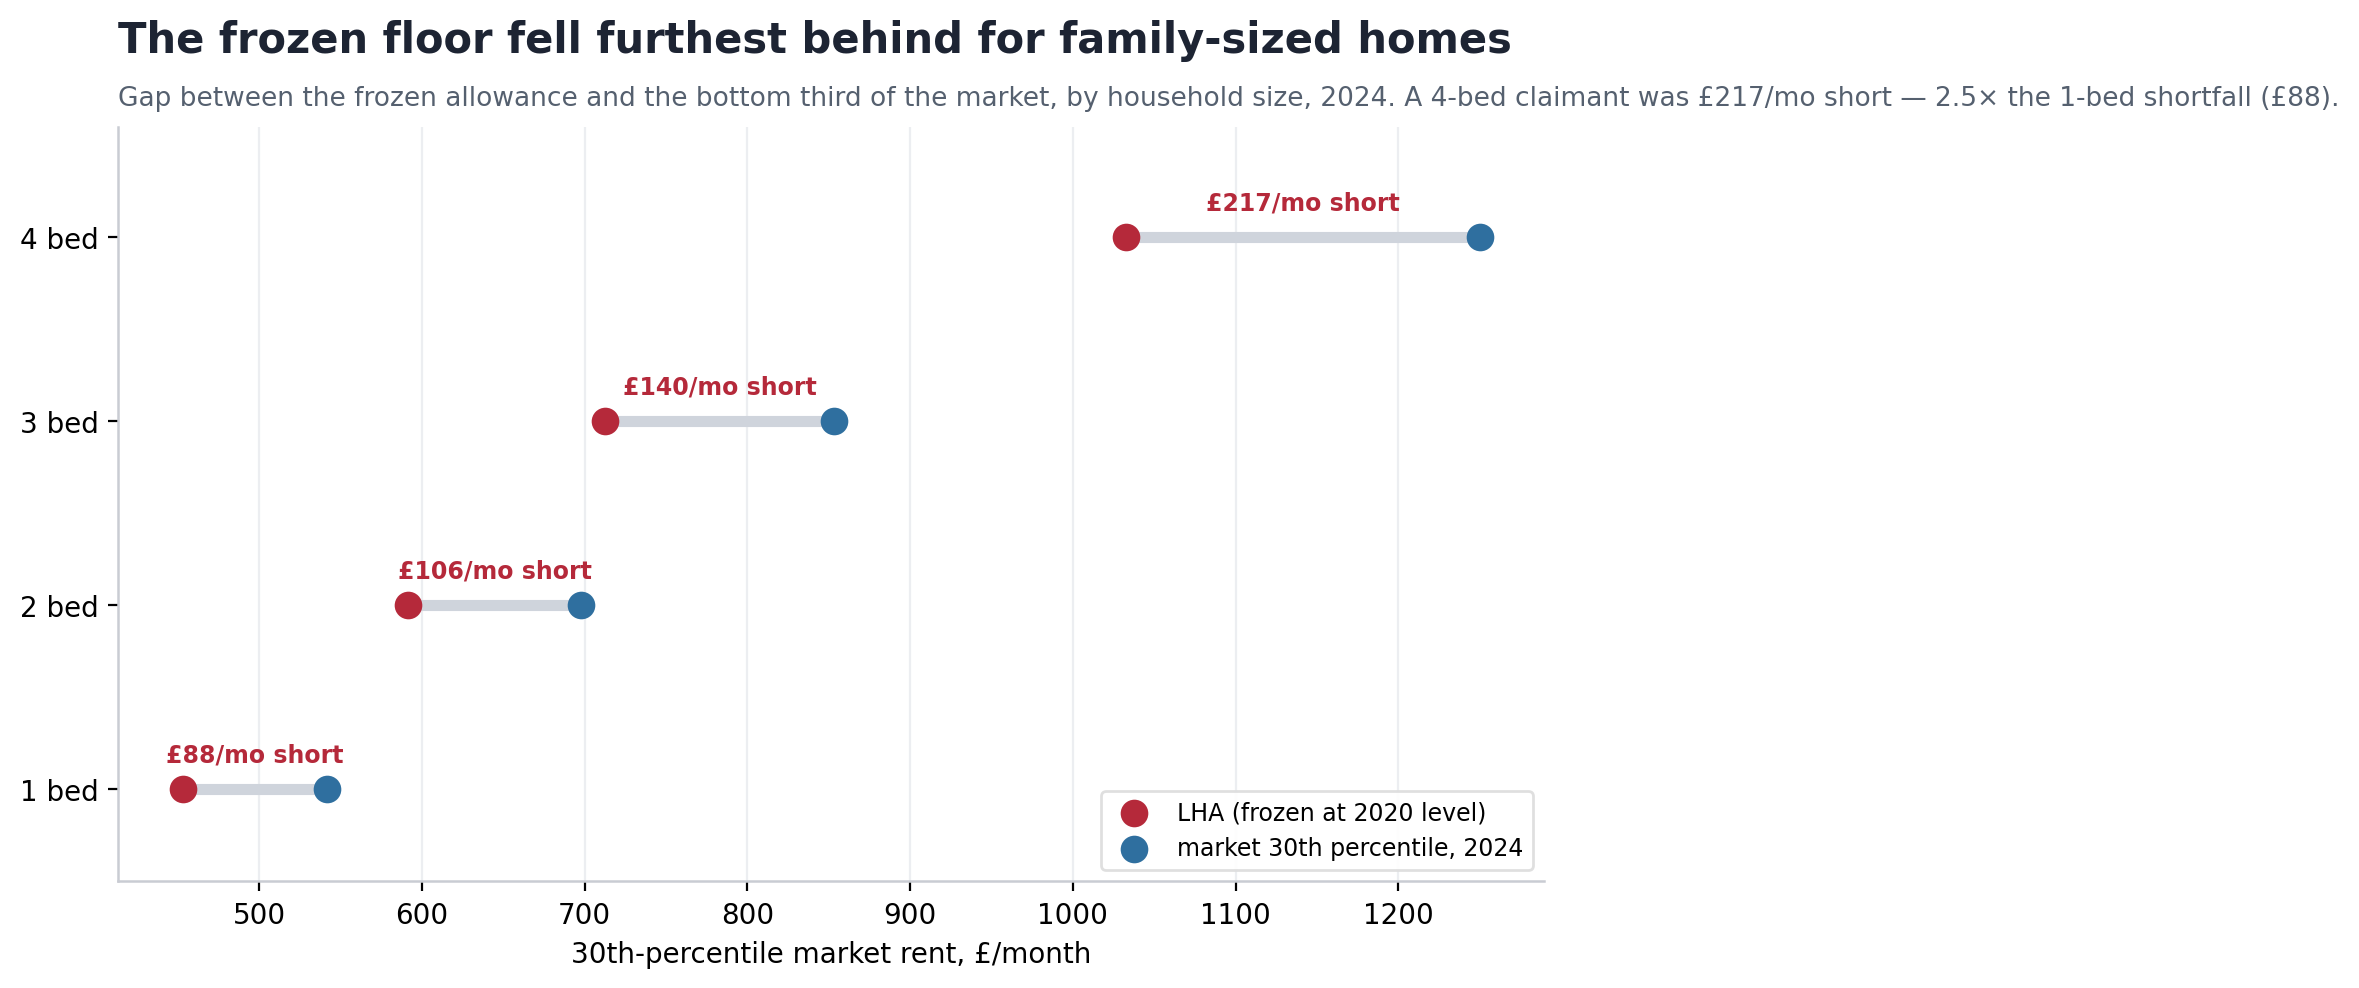
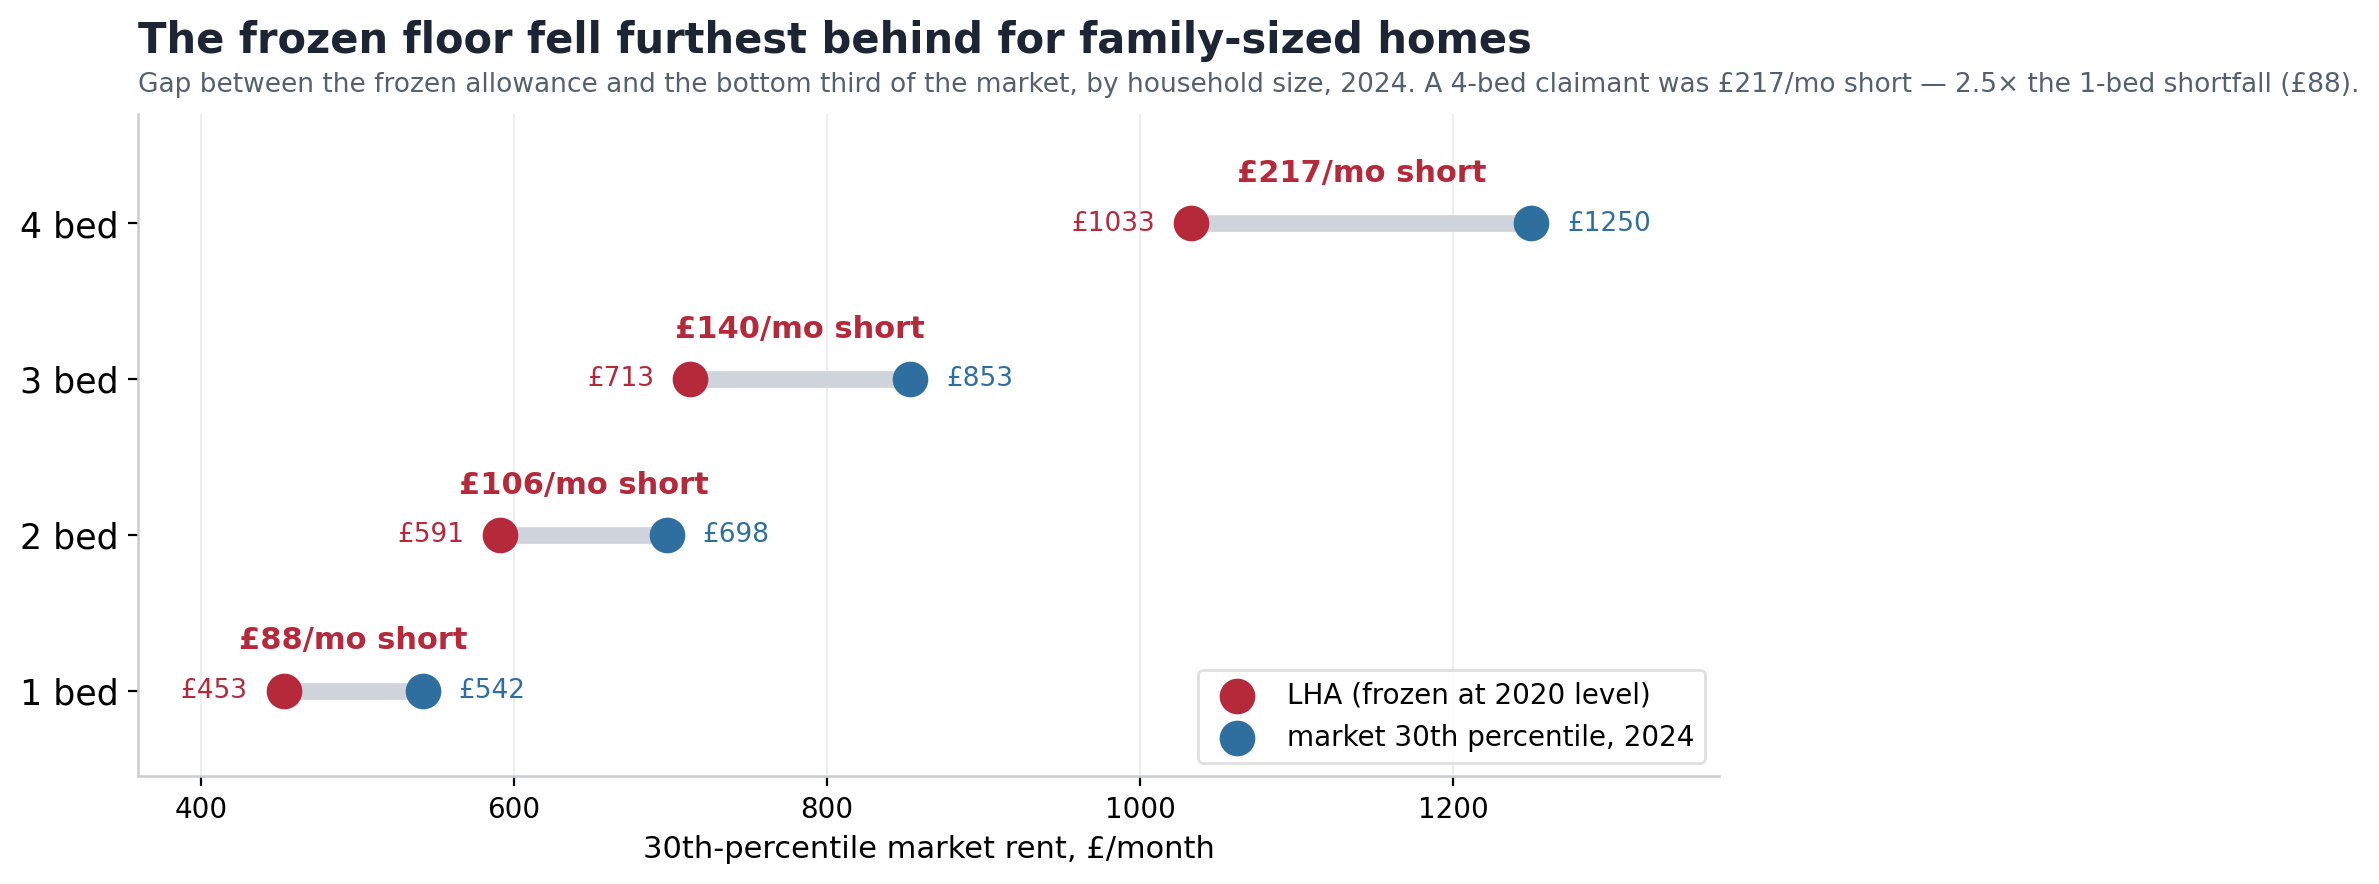
Update NEF package site

diff --git a/pages/general/cv.html b/pages/general/cv.html
@@ -378,7 +378,7 @@ ul.task-list li input[type="checkbox"] {
 <hr>
 <section id="professional-profile" class="level2">
 <h2 class="anchored" data-anchor-id="professional-profile">Professional Profile</h2>
-<p>Quantitative economist with <strong>peer-reviewed research in poverty measurement, microsimulation of policy reforms, and income and inequality dynamics</strong> — all built on national household-survey microdata — alongside a decade of high-level econometric practice in investment banking and macro fund management. I am returning to the public-policy research I have always found most meaningful: rigorous, distribution-grounded evidence aimed at reducing inequality and redistributing power. I come to UK housing policy as a tourist — but starting from the ground up in unfamiliar territory is how my best work has always begun. On seeing this posting I did exactly that, this time with UK data: a difference-in-differences design across 290 English local authorities (2019–2024) that uses the April 2020 Local Housing Allowance uplift and the April 2021 re-freeze as opposite policy shocks, to measure how far housing benefit is captured by landlords rather than reaching tenants. At home in complex survey microdata and administrative panel data — and equally at home explaining the findings to non-technical audiences under tight deadlines.</p>
+<p>Quantitative economist with <strong>peer-reviewed research in poverty measurement, microsimulation of policy reforms, and income and inequality dynamics</strong> — all built on national household-survey microdata — alongside a decade of high-level econometric practice in investment banking and a global macro fund. I am returning to the public-policy research I have long found most meaningful: rigorous, distribution-grounded evidence aimed at reducing inequality and redistributing power. I come to UK housing policy as a tourist — but starting from the ground up in unfamiliar territory is how my best work has often begun. On seeing this posting I did exactly that, this time with UK data: a difference-in-differences design across 290 English local authorities (2019–2024) that uses the April 2020 Local Housing Allowance uplift and the April 2021 re-freeze as opposite policy shocks, to measure how far housing benefit is captured by landlords rather than reaching tenants. At home in complex survey microdata and administrative panel data — and equally at home explaining the findings to non-technical audiences under tight deadlines.</p>
 <hr>
 </section>
 <section id="professional-experience" class="level2">
@@ -394,7 +394,7 @@ ul.task-list li input[type="checkbox"] {
 <h2 class="anchored" data-anchor-id="social-policy-applied-research">Social Policy &amp; Applied Research</h2>
 <p><strong>Econometric Consultant (pro-bono)</strong> · DICEA-UACH, Centre for Poverty Analysis · Mexico · <em>January 2009 – May 2012</em> Designed and delivered <strong>700+ hours of STATA training</strong> on income, consumption, and poverty measurement methodology to academics, postgraduates, and policy practitioners. Managed semi-annual regional poverty profiling across 30+ socioeconomic regions using complex household survey microdata (ENIGH). Built geospatial poverty analysis with SAS Maps and ADePT. Published three peer-reviewed papers on microsimulation of welfare-policy reforms, welfare measure construction, and income/inequality dynamics.</p>
 <p><strong>Expert Member (on-demand)</strong> · EMCR Network of Professionals · London · <em>2020 – present</em> Pro-bono technical work on probabilistic modelling, variable selection for nowcasting, and AI-augmented forecasting; ongoing independent development to maintain current methodological capability.</p>
-<p><strong>Research Assistant</strong> · Economics Department, City College of New York · <em>2007 – 2009</em> Quantitative modelling, statistical analysis, and research writing for faculty research projects; all outputs published in peer-reviewed journals or NSF conference proceedings.</p>
+<p><strong>Research Assistant</strong> · Economics Department, City College of New York · <em>2007 – 2009</em> Quantitative modelling, statistical analysis, and research writing for faculty research projects, with outputs published in peer-reviewed journals or NSF conference proceedings.</p>
 <hr>
 </section>
 <section id="selected-publications" class="level2">

diff --git a/pages/working-papers/fiscal-capture.html b/pages/working-papers/fiscal-capture.html
@@ -522,7 +522,7 @@ Figure&nbsp;1: <strong>The receding yield floor.</strong> Two-bedroom market ren
 <div id="fig-bedroom" class="quarto-float quarto-figure quarto-figure-center anchored">
 <figure class="quarto-float quarto-float-fig figure">
 <div aria-describedby="fig-bedroom-caption-0ceaefa1-69ba-4598-a22c-09a6ac19f8ca">
-<p><img src="../../papers/bedroom_gap_cg2026b.png" style="width:88.0%" data-fig-align="center" class="figure-img"></p>
+<p><img src="../../papers/bedroom_gap_cg2026b.png" style="width:98.0%" data-fig-align="center" class="figure-img"></p>
 </div>
 <figcaption class="quarto-float-caption-bottom quarto-float-caption quarto-float-fig" id="fig-bedroom-caption-0ceaefa1-69ba-4598-a22c-09a6ac19f8ca">
 Figure&nbsp;2: <strong>Cash shortfall by household size.</strong> For each bedroom category, the 30th-percentile market rent (ONS PIPR) at the level where the allowance was set at the April 2020 uplift (then frozen) and the level the market reached by 2024-Q1. The cash gap by which the frozen allowance fell behind the bottom third of the market rises from £88 per month for a one-bedroom home to £217 for a four-bedroom home, while the proportional erosion (about 15 per cent) is similar across sizes.
